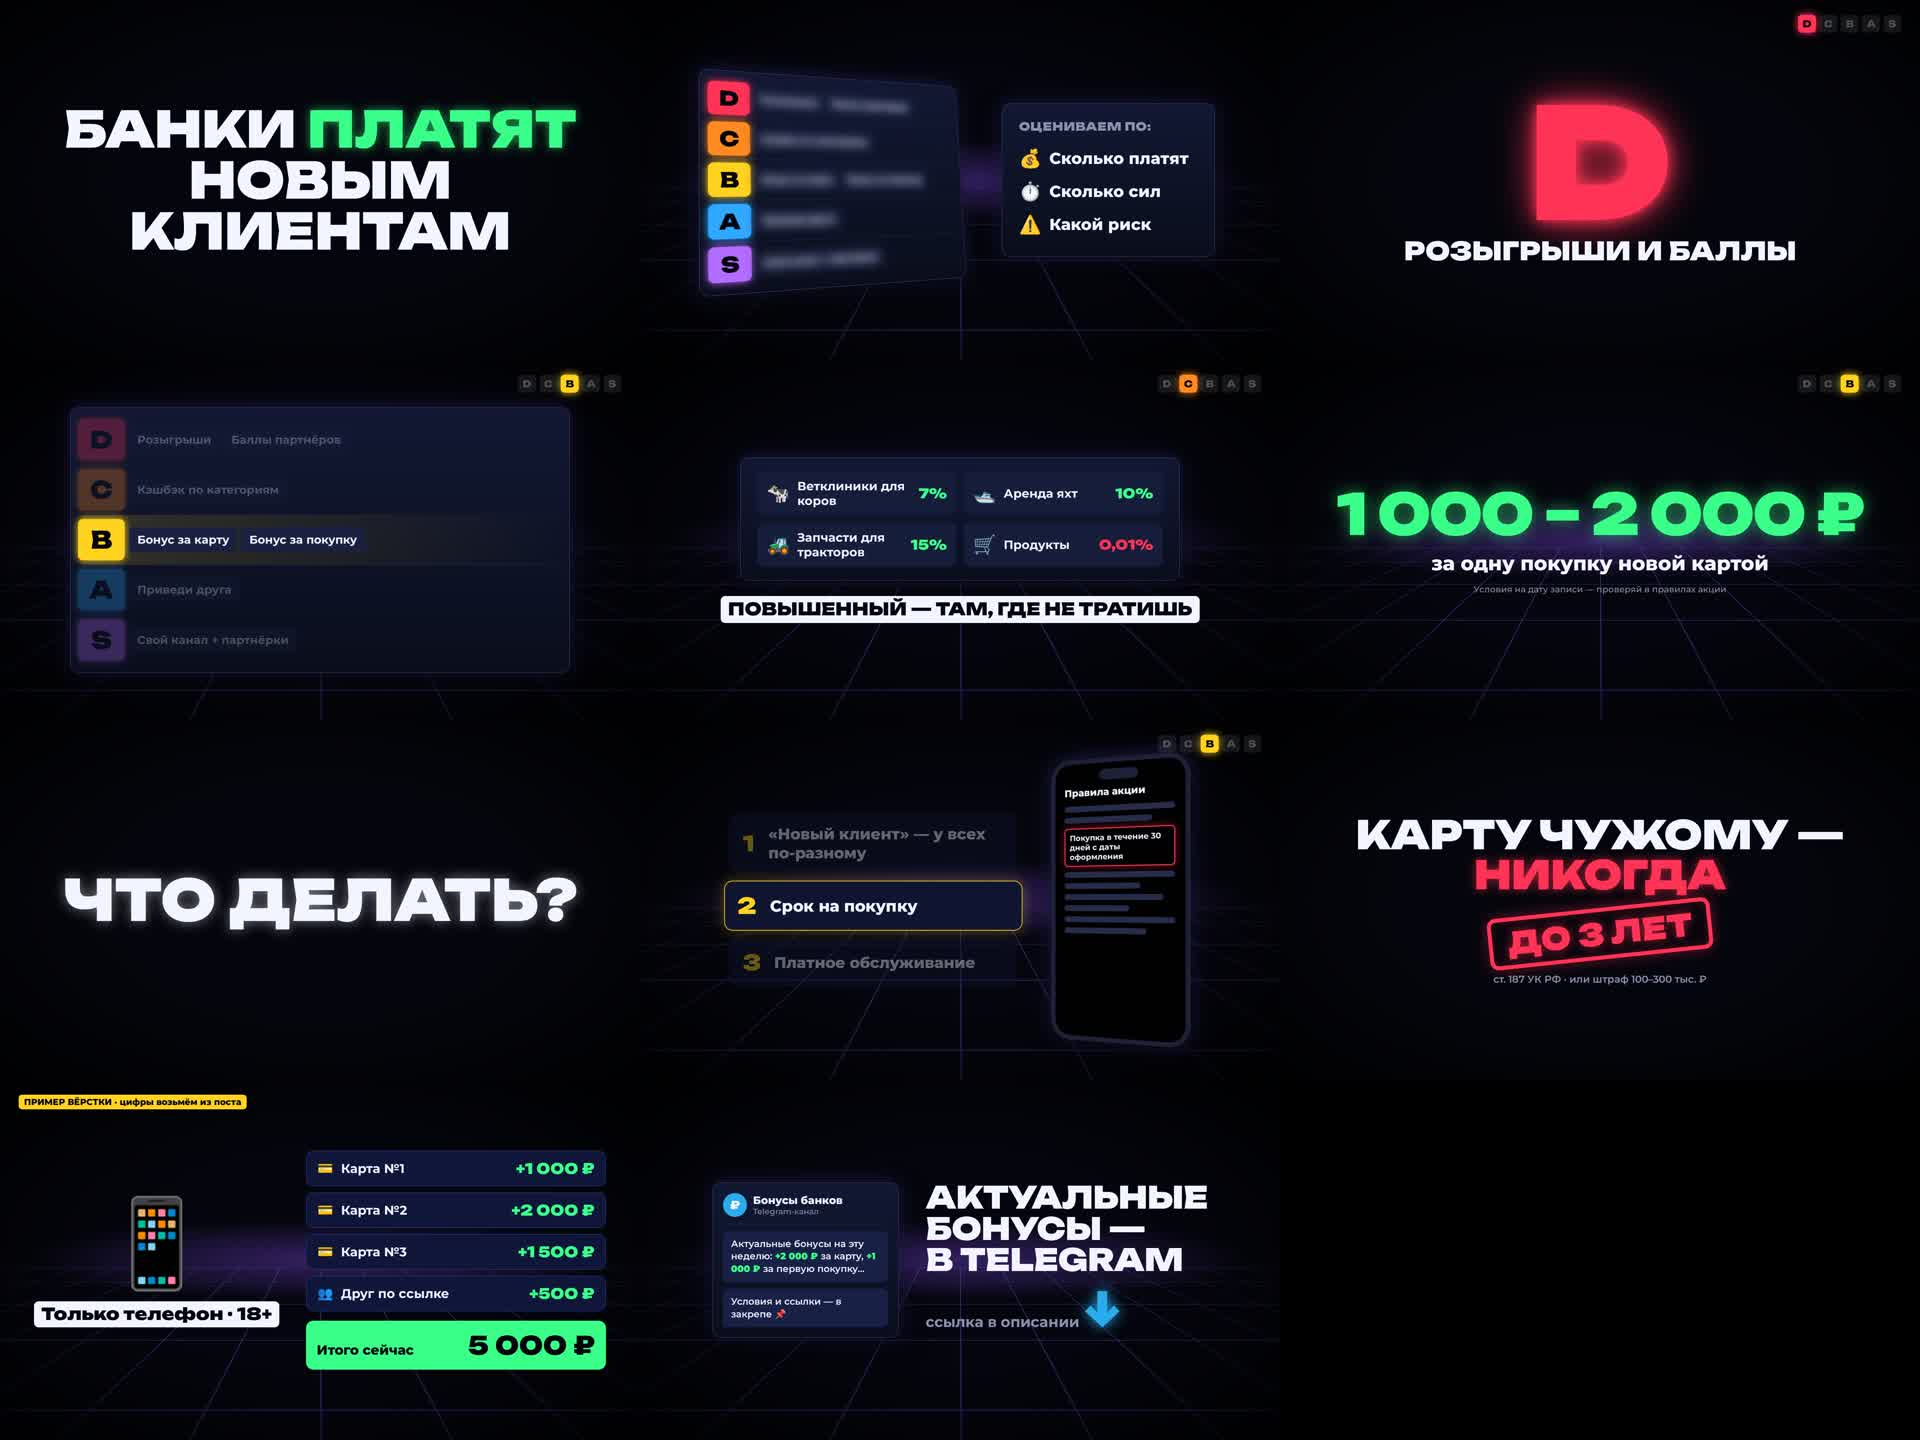
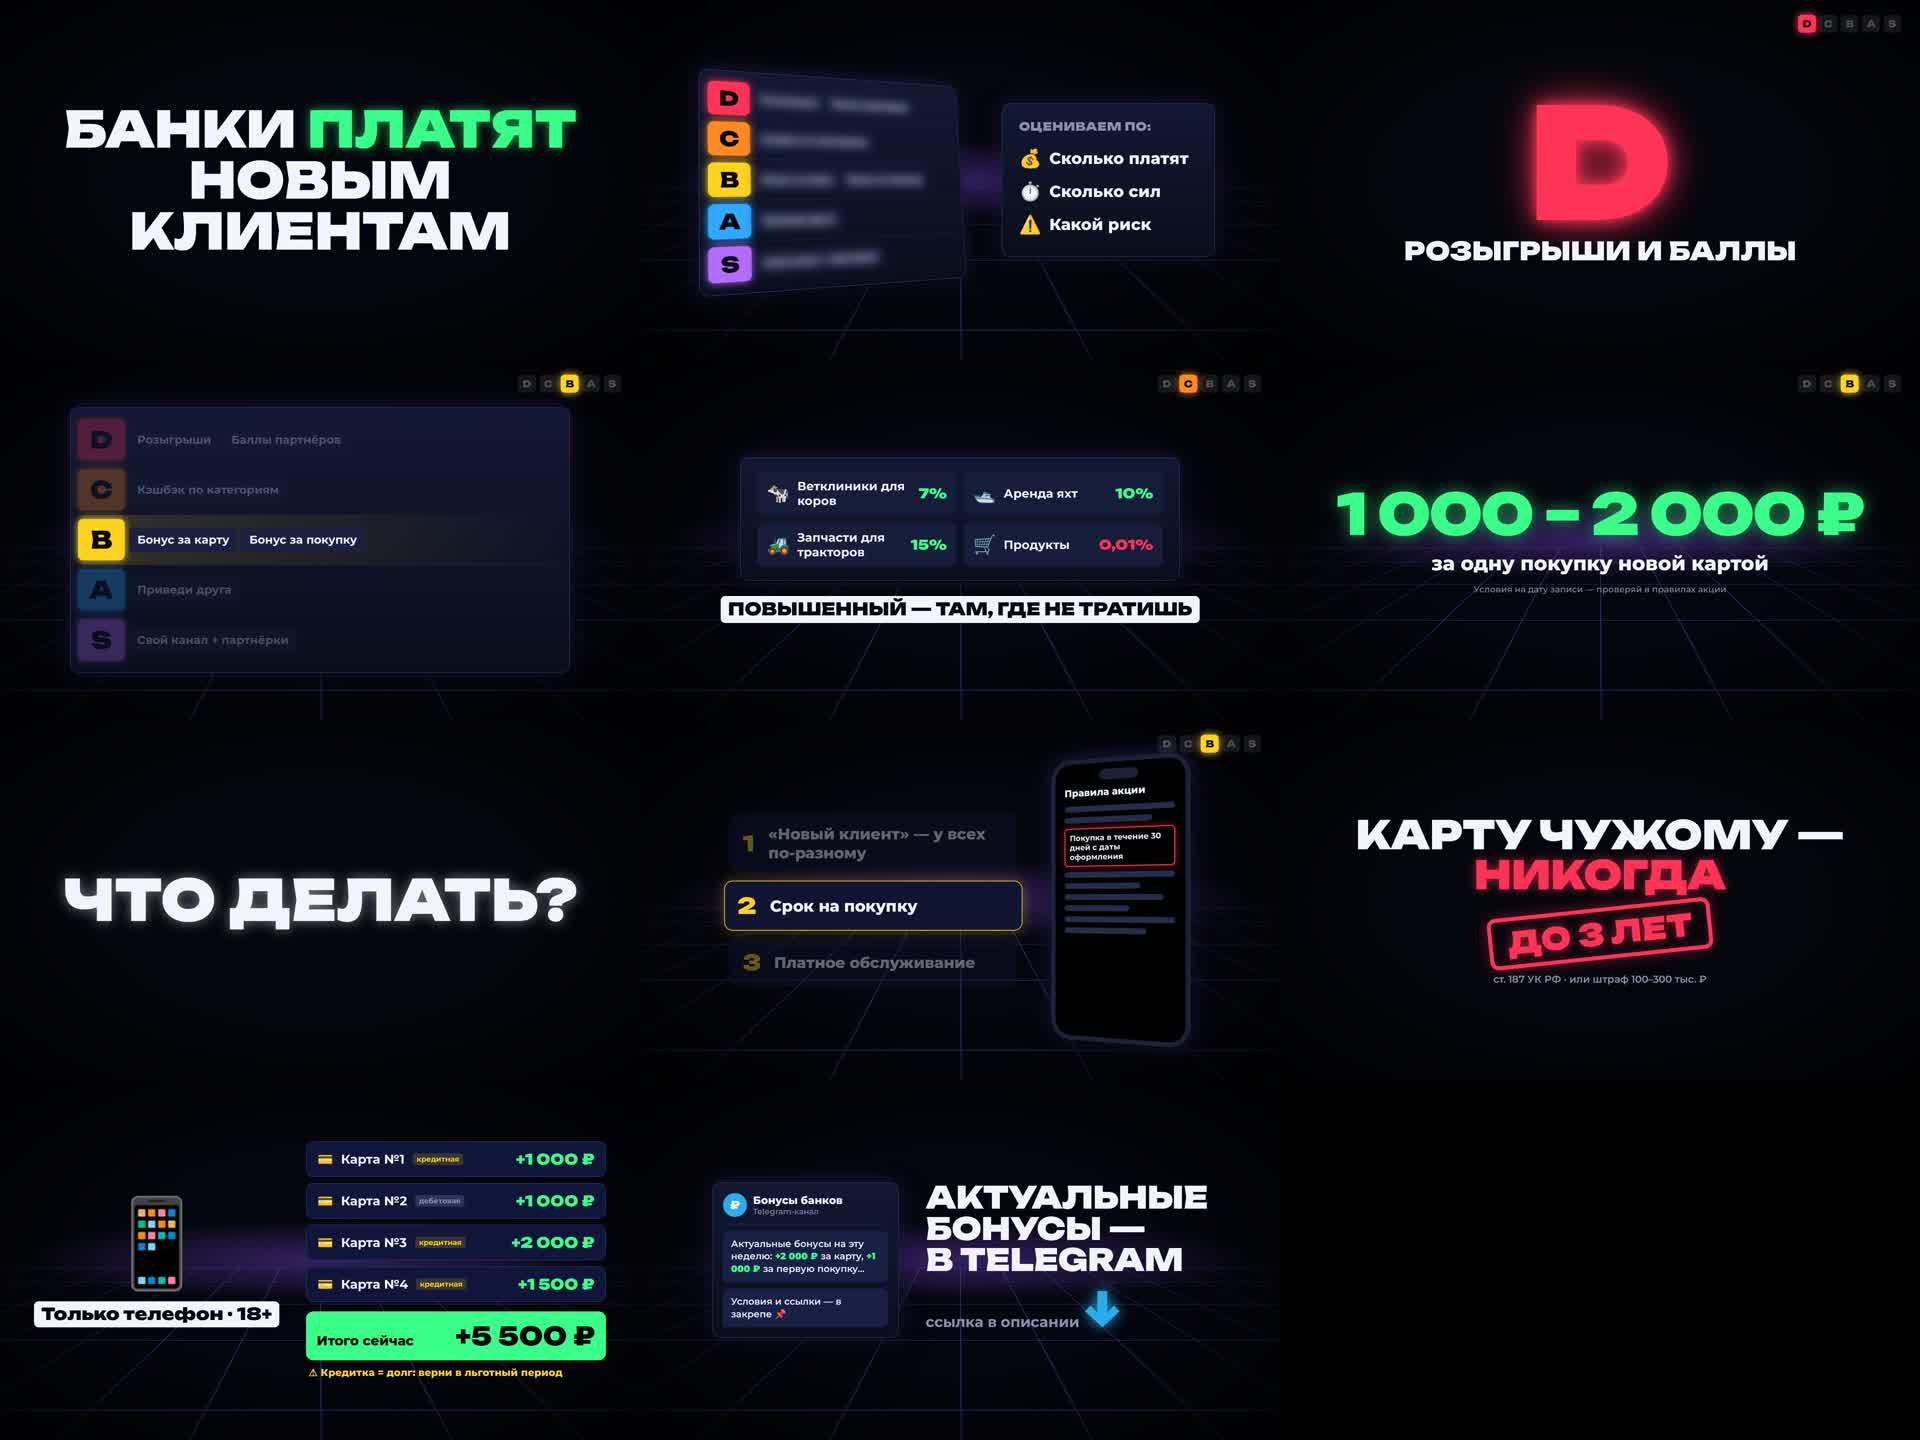
YouTube #1: owner's current offers in the 'only a phone' count
Four cards from the owner's Telegram post (+5 500 ₽ total), banks kept
anonymous in the video (credit-card ad rules), credit-card warning added.

Claude-Session: https://claude.ai/code/session_01RfCfKDkbyGyDNmw4SWPkFj

Changed region(s): [[0.1562, 0.7812, 0.3125, 0.9688], [0.0, 0.75, 0.125, 0.7812]]

diff --git a/youtube/kit/style.html b/youtube/kit/style.html
@@ -128,6 +128,9 @@
   .bonus .v { margin-left: auto; font: 900 44px "Unb"; color: var(--green); }
   .total { margin-top: 10px; display: flex; align-items: baseline; justify-content: space-between; padding: 26px 32px; border-radius: 22px; background: var(--green); color: var(--bg); }
   .total span { font: 800 40px "Mont"; } .total b { font: 900 76px "Unb"; }
+  .k { font: 700 22px "Mont"; font-style: normal; padding: 4px 12px; border-radius: 8px; background: #2a335f; color: var(--muted); }
+  .k.cr { background: rgba(255,210,31,.16); color: var(--B); }
+  .warn { font: 800 30px "Mont"; color: var(--B); padding-left: 8px; }
   .ex { position: absolute; top: 44px; left: 56px; font: 800 26px "Mont"; color: var(--bg); background: var(--B); padding: 6px 16px; border-radius: 10px; }
 
   /* 11. CTA */
@@ -214,14 +217,14 @@
   </section>
 
   <section class="scene s10">
-    <div class="ex">ПРИМЕР ВЁРСТКИ · цифры возьмём из поста</div>
     <div class="who"><span class="emo">📱</span><div class="plate">Только телефон · 18+</div></div>
     <div class="stack">
-      <div class="bonus"><span class="emo">💳</span>Карта №1<span class="v">+1 000 ₽</span></div>
-      <div class="bonus"><span class="emo">💳</span>Карта №2<span class="v">+2 000 ₽</span></div>
-      <div class="bonus"><span class="emo">💳</span>Карта №3<span class="v">+1 500 ₽</span></div>
-      <div class="bonus"><span class="emo">👥</span>Друг по ссылке<span class="v">+500 ₽</span></div>
-      <div class="total"><span>Итого сейчас</span><b>5 000 ₽</b></div>
+      <div class="bonus"><span class="emo">💳</span>Карта №1<i class="k cr">кредитная</i><span class="v">+1 000 ₽</span></div>
+      <div class="bonus"><span class="emo">💳</span>Карта №2<i class="k">дебетовая</i><span class="v">+1 000 ₽</span></div>
+      <div class="bonus"><span class="emo">💳</span>Карта №3<i class="k cr">кредитная</i><span class="v">+2 000 ₽</span></div>
+      <div class="bonus"><span class="emo">💳</span>Карта №4<i class="k cr">кредитная</i><span class="v">+1 500 ₽</span></div>
+      <div class="total"><span>Итого сейчас</span><b>+5 500 ₽</b></div>
+      <div class="warn">⚠ Кредитка = долг: верни в льготный период</div>
     </div>
   </section>
 

diff --git a/youtube/01-bank-tierlist/script.md b/youtube/01-bank-tierlist/script.md
@@ -32,7 +32,7 @@
 пару тысяч за вечер, а другие — ноль и потраченное время.
 
 Большинство видео про бонусы — это либо реклама одной карты, либо пересказ
-условий мелким шрифтом. ⚠ Я веду канал про бонусы банков и разбираю их условия.
+условий мелким шрифтом. Я веду канал про бонусы банков и разбираю их условия.
 
 Поэтому я собрал все способы, которыми банк может заплатить тебе, и расставил их
 от мусора до топа. [ЭКРАН: карточка из трёх критериев] Оцениваем по трём вещам:
@@ -146,7 +146,8 @@
 бонусах ты рассказываешь не трём друзьям, а целой аудитории: свой Telegram-канал,
 ролики, посты. Люди приходят за полезной информацией, оформляют карты по твоим
 ссылкам, а банк платит тебе как партнёру. Один хороший пост работает неделями.
-⚠ Именно так устроен мой канал.
+Именно так устроен мой канал: за карты по моим ссылкам
+я сам плачу подписчикам.
 
 Но здесь уже взрослые правила. [ЭКРАН: список 1-2-3]
 
@@ -176,11 +177,29 @@
 суммы растёт, касса на каждой карточке]
 
 А теперь обещанный подсчёт. Допустим, тебе восемнадцать, у тебя нет ничего,
-кроме телефона. Вот какие бонусы можно получить прямо сейчас:
-⏳ [СПИСОК ИЗ ПОСТА ВЛАДЕЛЬЦА: карта — бонус — условие, по строке на карту]
-Итого — ⏳ [СУММА] рублей. Это не зарплата и не каждый месяц: это бонусы новым
-клиентам, они разовые и только при выполнении условий. Но для старта — очень
-неплохо. Полный список с условиями — в моём Telegram.
+кроме телефона. Вот сколько можно получить прямо сейчас по ссылкам из моего
+Telegram.
+
+[ЭКРАН: карточка 1 · кредитная · +1 000 ₽] Первая карта — плюс тысяча рублей.
+Условие: любая покупка по терминалу.
+
+[ЭКРАН: карточка 2 · дебетовая · +1 000 ₽] Вторая — ещё тысяча. Две покупки,
+каждая от пятисот рублей.
+
+[ЭКРАН: карточка 3 · кредитная · +2 000 ₽] Третья — две тысячи. Одна покупка
+по терминалу от трёх тысяч рублей.
+
+[ЭКРАН: карточка 4 · кредитная · +1 500 ₽] Четвёртая — полторы тысячи. Покупка
+от пятисот рублей, и не закрывать карту месяц.
+
+[ЭКРАН: итог «+5 500 ₽», касса] Итого — пять с половиной тысяч рублей за
+несколько дней.
+
+[ЭКРАН: жёлтая плашка «КРЕДИТКА = ДОЛГ»] Но честно: три из четырёх карт —
+кредитные. Кредитка — это деньги банка, а не твои. Всё, что потратил, верни до
+конца льготного периода, тогда процентов не будет. И проверь, сколько стоит
+обслуживание. Это разовые бонусы новым клиентам, а не зарплата. Какие именно
+карты и как получить выплату — в моём Telegram, ссылка в описании.
 
 [ЭКРАН: итог, три пункта] Итак, что я бы сказал себе в самом начале.
 
@@ -210,6 +229,11 @@
 | Взносы ИП 2026 — 57 390 ₽/год даже при нулевом доходе (≈ 4 780 ₽/мес) | [ФНС](https://www.nalog.gov.ru/rn16/news/tax_doc_news/16617063/) |
 | Рекламные ссылки маркируются: «Реклама», рекламодатель, erid | 38-ФЗ «О рекламе», ст. 18.1 |
 | НПД: 6 % с выплат от юрлиц и ИП, 4 % — от физлиц | 422-ФЗ, ст. 10 |
+| Подсчёт «только телефон»: 4 карты, +1 000 / +1 000 / +2 000 / +1 500 = 5 500 ₽, условия по каждой | пост владельца в Telegram, 2026-10-07 (выплаты делает владелец по партнёрским ссылкам) |
 | Передача карты третьим лицам: до 3 лет или штраф 100–300 тыс. ₽ | ст. 187 УК РФ (в ред. 176-ФЗ от 2024), проверено для рилса №6 |
+
+Банки в видео не называем: реклама кредитной карты с условием о бонусе по закону
+(38-ФЗ, ст. 28) требует показать все условия, влияющие на стоимость (ПСК и т. д.).
+Названия и условия — в Telegram.
 
 Числа на экране — с пометкой «условия на дату записи, проверяй в правилах акции».
